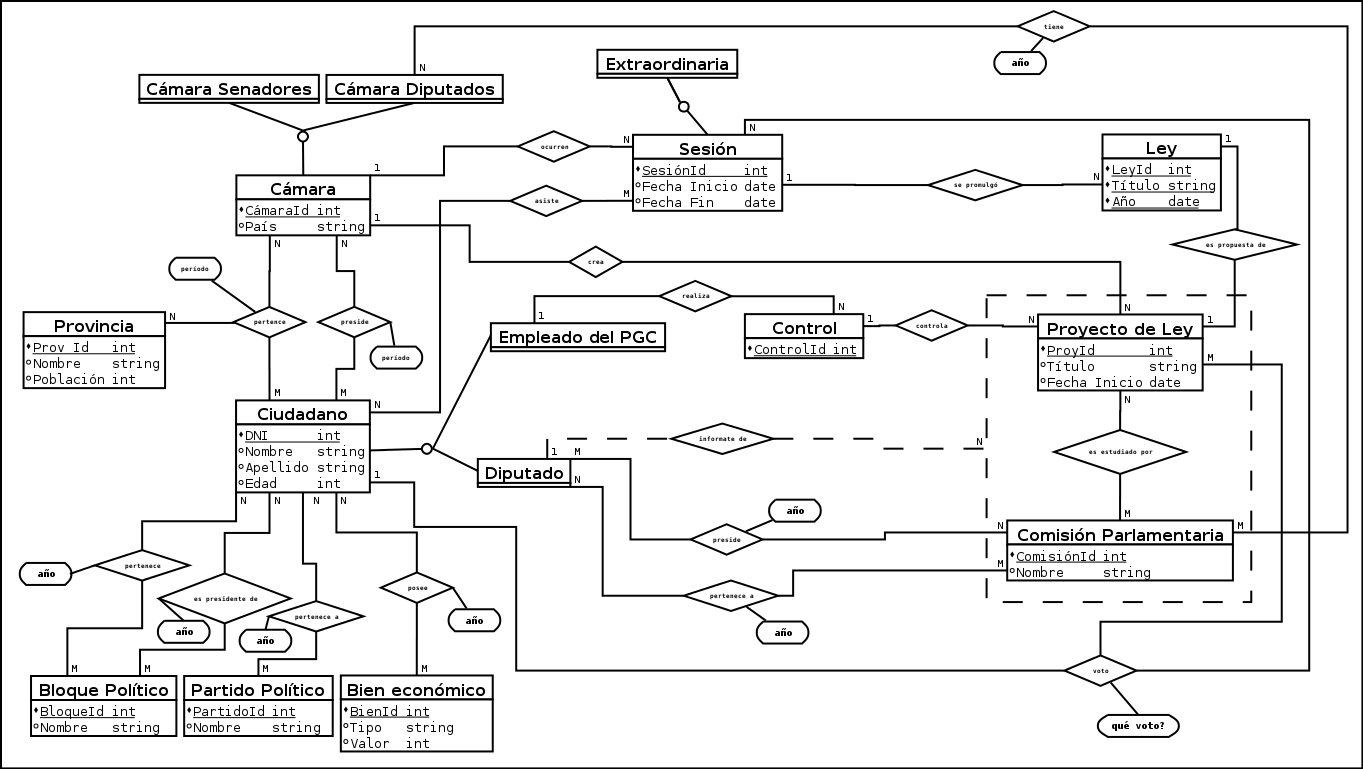
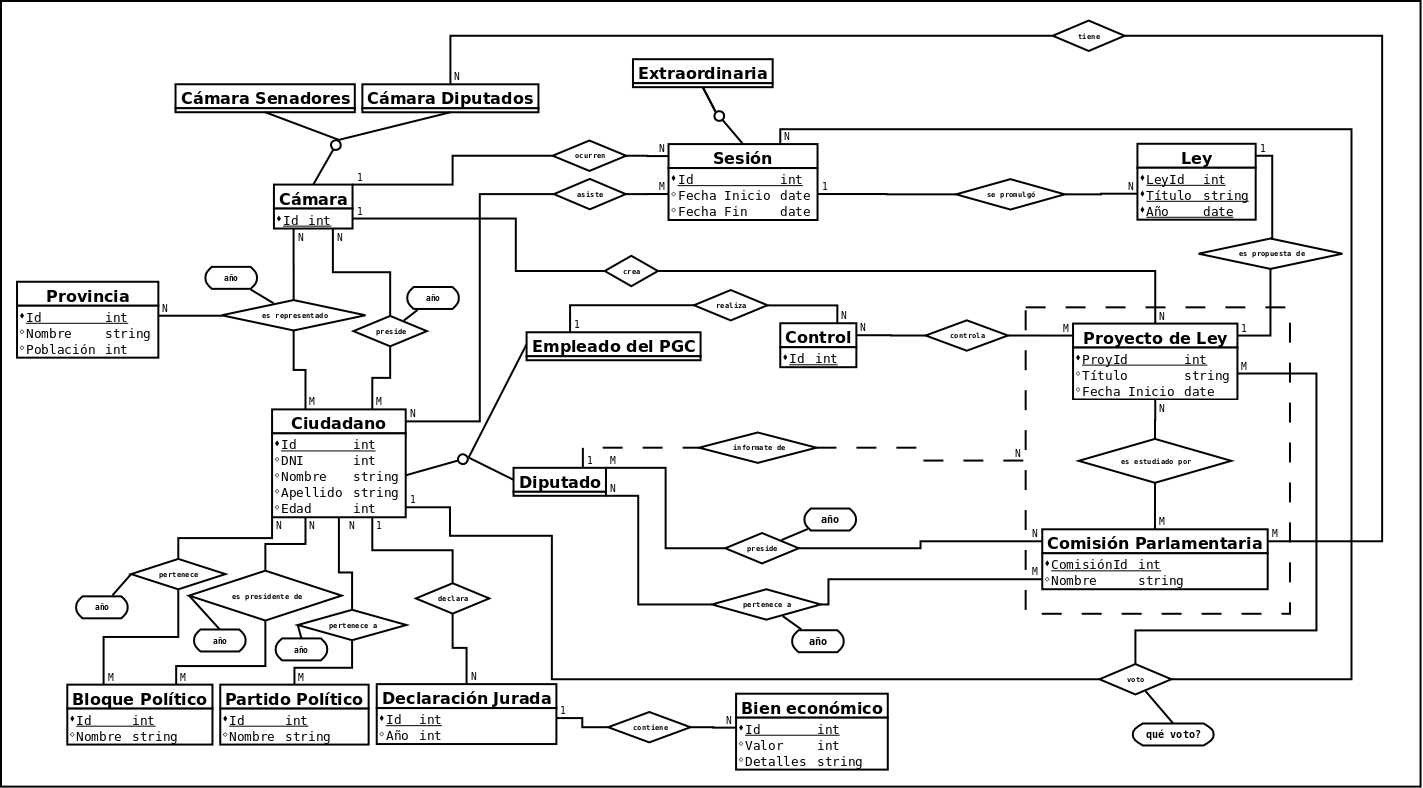
agrego el diag, mod el informe

Changed region(s): [[0.0, 0.0, 1.0, 1.0]]

diff --git a/Informe/mer.tex b/Informe/mer.tex
@@ -62,29 +62,29 @@ Las restricciones que no pueden ser modeladas en el diagrama son expresadas a co
 	Ciudadano\_id (PK) (FK - Ciudadanos) \\
 	Cámara\_id (PK) (FK - Cámaras) \\
 	Provincia\_id (PK) (FK - Provincias) \\
-	Año
+	Año (PK) 
 	\item \textbf{Presidentes\_Cámaras} \\
 	Ciudadano\_id (PK) (FK - Ciudadanos)\\
 	Cámara\_id (PK) (FK - Cámaras) \\
-	Año
+	Año (PK)
 	\item \textbf{Bloque Político} \\
 	id (PK) \\
 	Nombre
 	\item \textbf{Bloques Políticos\_Ciudadanos\_Presidentes} \\
 	Ciudadano\_id (PK) (FK - Ciudadanos) \\
 	Bloque Político\_id (PK) (FK - Bloques Políticos)\\
-	Año
+	Año (PK)
 	\item \textbf{Bloques Políticos\_Ciudadanos\_Integrantes} \\
 	Ciudadano\_id (PK) (FK - Ciudadanos) \\
 	Bloque Político\_id (PK) (FK - Bloques Políticos)\\
-	Año
+	Año (PK)
 	\item \textbf{Partidos Políticos} \\
 	id (PK) \\
 	Nombre 
 	\item \textbf{Partidos Políticos\_Ciudadanos} \\
 	Ciudadano\_id (PK) (FK - Ciudadanos) \\
 	Partido Político\_id (PK) (FK - Partidos Políticos)\\
-	Año
+	Año (PK)
 	\item \textbf{Sesiones} \\
 	id (PK) \\
 	Fecha\_inicio \\
